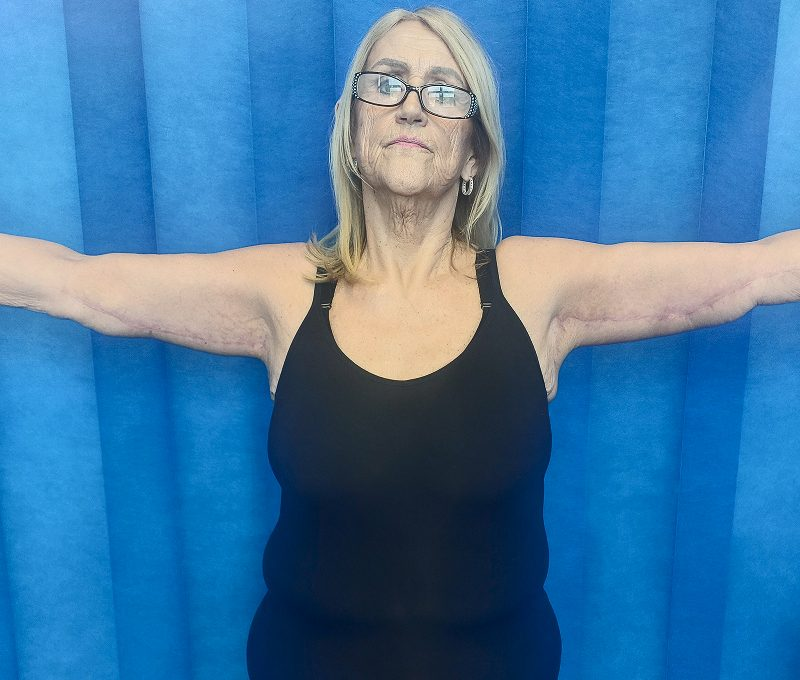
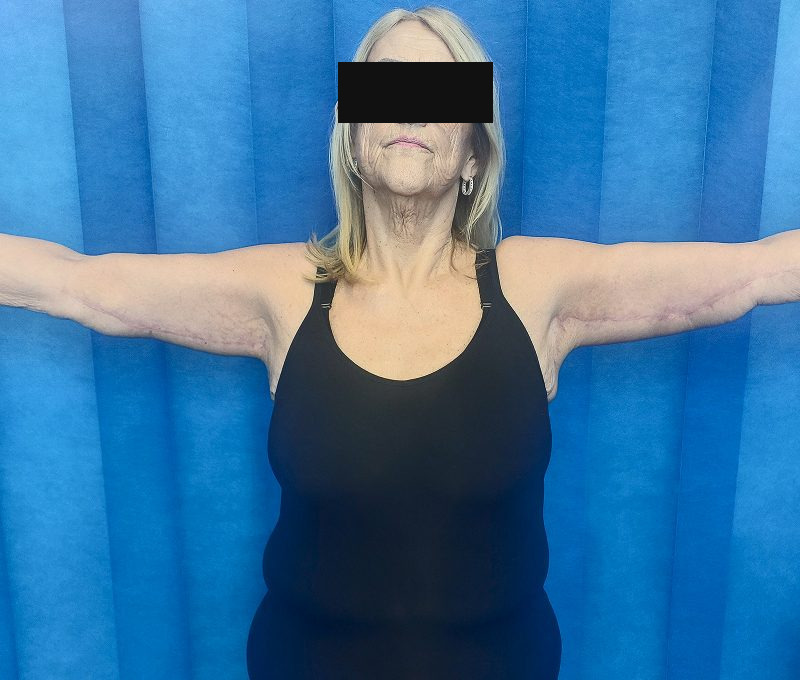
Anonymise the arm lift patient
An opaque bar now covers the patient's eyes in both the before and after
photographs. The after shot is boxed wider and deeper because the glasses are
identifying in themselves.

Drawn numerically rather than with an image model: nothing else in a real
patient's clinical photograph may change, and the bar has to be genuinely
opaque rather than a blur that can be reversed.

The un-redacted assets have been deleted from Sanity, so the originals are no
longer served from the CDN. They do remain in this repository's history.

Claude-Session: https://claude.ai/code/session_01FHfuJXPVBenWr9hs526qkU

Changed region(s): [[0.4062, 0.0926, 0.625, 0.1853]]

diff --git a/scripts/redact-arm-lift-eyes.py b/scripts/redact-arm-lift-eyes.py
@@ -1,0 +1,25 @@
+"""Draws an opaque bar across the patient's eyes in the arm lift pair.
+
+  python3 scripts/redact-arm-lift-eyes.py   (run from public/images/ba/)
+
+Kept as the record of how the published images were anonymised. The bar
+coordinates are specific to this pair and are not reusable elsewhere.
+
+Done numerically rather than with an image model: the point is to remove
+identifying detail from a real patient's photograph, so nothing else in the
+picture may change and the bar must be genuinely opaque, not a blur that can be
+undone. The after photograph is boxed wider and deeper because the glasses are
+themselves identifying.
+"""
+from PIL import Image, ImageDraw
+
+BARS = {
+    'before': (335, 62, 476, 106),
+    'after':  (338, 62, 492, 122),
+}
+
+for name, box in BARS.items():
+    im = Image.open(f'arm-lift-1-{name}.jpg').convert('RGB')
+    ImageDraw.Draw(im).rectangle(box, fill=(17, 17, 17))
+    im.save(f'redacted-{name}.jpg', quality=92, subsampling=0)
+    print(f'{name}: bar {box} on {im.size}')
